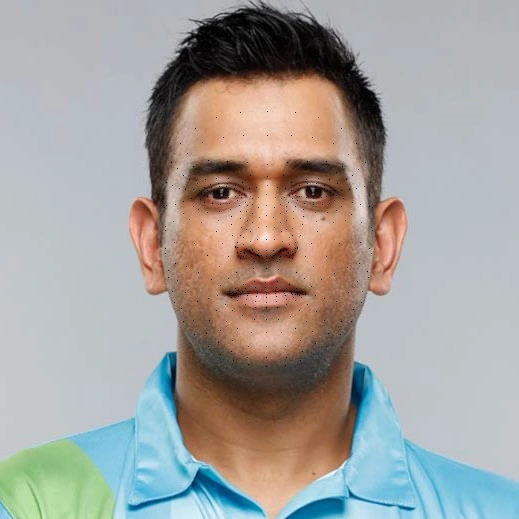
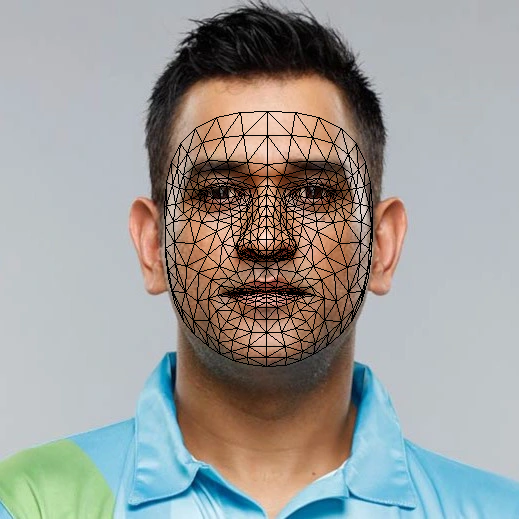
updated task2.py: added faces

Changed region(s): [[0.3083, 0.2158, 0.7399, 0.7091]]

diff --git a/Task-2/task2.py b/Task-2/task2.py
@@ -1,3 +1,4 @@
+from cgi import print_arguments
 import cv2 as cv
 import sys
 
@@ -10,20 +11,49 @@ def draw_uv(image_path: str, uv_path: str):
 
             # open the image file
             img = cv.imread(image_path)
+            vertices = {}
+            faces = {}
+            face = []
+            i, j = 0, 0  # pointer variables
 
             for line in lines:
-                # ignore lines which do not begin with vt
-                if line[: 2] != 'vt':
-                    continue
 
-                # modify u and v to map onto the image {0 <= (u,v) <=1}
-                u, v = list(map(float, line[2:].split()))
-                u = u*img.shape[0]
-                v = img.shape[1] - v*img.shape[1]
+                # plot points
+                if line[: 2] == 'vt':
 
-                # plot the point on the image
-                img = cv.circle(img, (int(u), int(v)), radius=0,
-                                color=(0, 0, 0), thickness=-1)
+                    # modify u and v to map onto the image {0 <= (u,v) <=1}
+                    u, v = list(map(float, line[2:].split()))
+                    u = u*img.shape[0]
+                    v = img.shape[1] - v*img.shape[1]
+                    u = int(u)
+                    v = int(v)
+
+                    # save vertices for drawing lines
+                    vertices[i] = (u, v)
+                    i = i+1
+
+                    # plot the point on the image
+                    img = cv.circle(img, (u, v), radius=0,
+                                    color=(0, 0, 0), thickness=-1)
+
+                elif line[0] == 'f':
+
+                    x, y, z = line[2: ].split()
+                    x = int(x[: len(x)//2]) - 1
+                    y = int(y[: len(y)//2]) - 1
+                    z = int(z[: len(z)//2]) - 1
+
+                    faces[j] = (vertices[x], vertices[y], vertices[z])
+
+                    # plot the lines for a face
+                    img = cv.line(img, pt1=faces[j][0], pt2=faces[j][1],
+                                  color=(0, 0, 0), thickness=1)
+                    img = cv.line(img, pt1=faces[j][1], pt2=faces[j][2],
+                                  color=(0, 0, 0), thickness=1)
+                    img = cv.line(img, pt1=faces[j][2], pt2=faces[j][0],
+                                  color=(0, 0, 0), thickness=1)
+
+                    j = j+1
 
             # write the uv mapped image file
             status = cv.imwrite('uv_map.png', img)
@@ -37,5 +67,5 @@ def draw_uv(image_path: str, uv_path: str):
 
 
 if __name__ == '__main__':
-    py, img, uv = sys.argv
+    img, uv = sys.argv[1:]
     draw_uv(img, uv)
